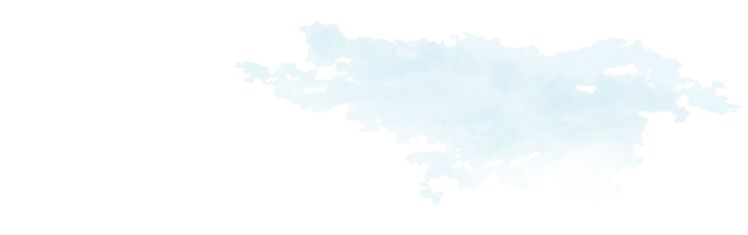
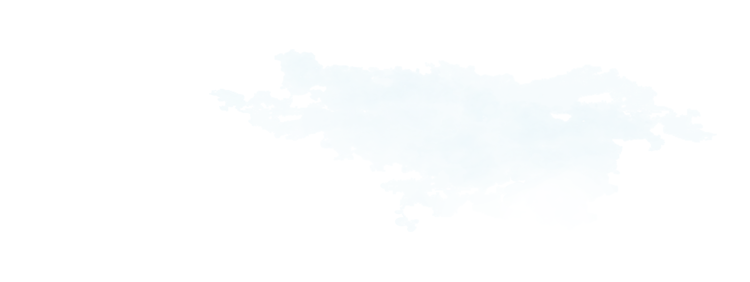
save picture

diff --git a/Frontend/static/css/portal.css b/Frontend/static/css/portal.css
@@ -44,8 +44,8 @@ body {
 
 .cloud {
     background-repeat: no-repeat;
-    background-size: 90% 90%;
-    width: 90%;
+    background-size: 100% 100%;
+    width: 100%;
     height: 15%;
     display: none;
 }
@@ -62,7 +62,7 @@ body {
 #cloud2 {
     background-image: url("../pictures/1-4.png");
     position: relative;
-    top: 6%;
+    top: 16%;
     animation: slideInRight 7s forwards;
     left: 100%;
     overflow: hidden !important;

diff --git a/Frontend/html/ticket.html b/Frontend/html/ticket.html
@@ -19,7 +19,7 @@
 </head>
 
 <body>
-    <div id="container">
+    <div class="container" id="container">
         <div class="countPassagers">恭喜你成为第12位搭上列车的乘客</div>
         <div class="station-name">我是站</div>
         <div class="destination">我是目的地</div>

diff --git a/Frontend/static/js/ticket.js b/Frontend/static/js/ticket.js
@@ -1,6 +1,6 @@
 const method = "/ticket/";
 var img = new Image();
-img.src = "../static/pictures/1-1.png";
+img.src = "../static/pictures/5-1.png";
 img.onload = function () {
         var node = document.getElementById("container");
         domtoimage.toPng(node)

diff --git a/Frontend/static/css/ticket.css b/Frontend/static/css/ticket.css
@@ -112,7 +112,7 @@ button {
     word-break: break-all;
     text-align: center;
 }
-#container{
+.container{
     background-image: url("../pictures/5-1.png");
     background-size: 100% 100%;
     background-repeat: no-repeat;
